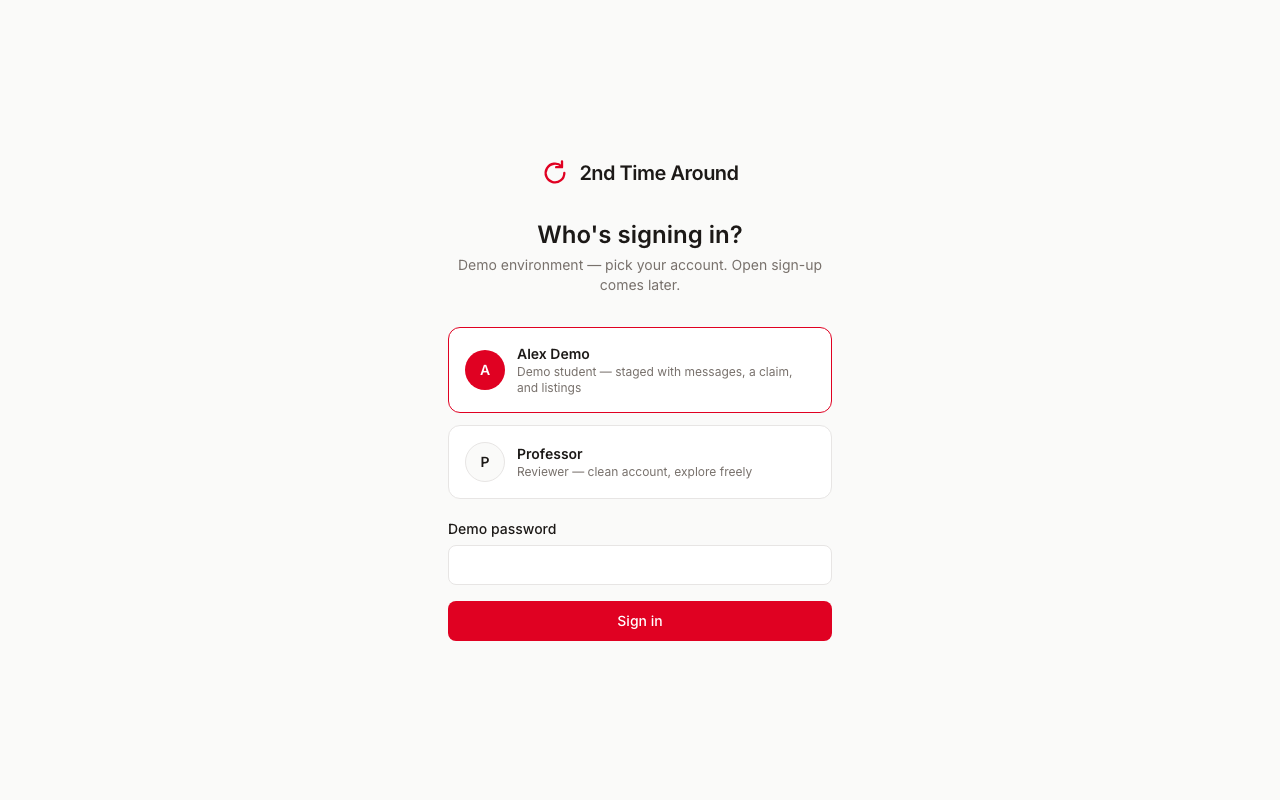
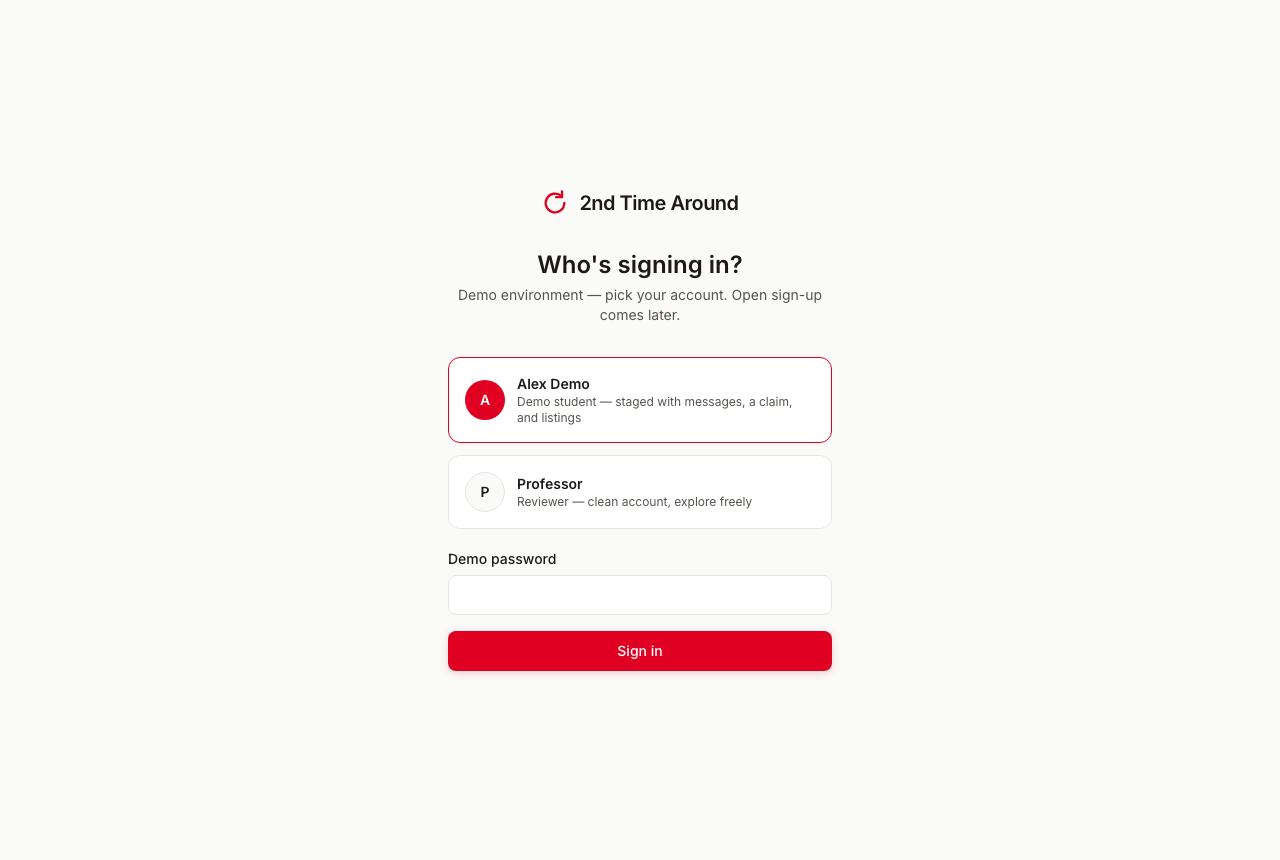
docs: refresh full gallery to v3 UI + add v3 section to README
Recaptured the remaining showcase screenshots from the live deployment
(persona picker, mobile landing, browse marketplace + lost & found, my items,
sell wizard, meetup + claim threads, mobile browse) so the whole gallery
reflects the elevated v3 UI.

README: mark the platform as v3 with a top-line note and a "v3 — design
elevation" section (v2 → v3 table covering depth, motion, material, display
serif, the campus-impact band, the HCI/accessibility pass, and correctness/
scale hardening).

diff --git a/README.md b/README.md
@@ -10,6 +10,10 @@ no randoms from across town. no sketchy meetups. no "is this still
 available?" into the void. every account is a UC student, every meetup spot
 is on campus, and every sale keeps something out of a dumpster.
 
+now on **v3** — a full design-elevation + usability pass on top of v2's
+feature set. what changed is [below](#v3--design-elevation); every screenshot
+in this README is v3.
+
 ## the stack
 
 - **Next.js 15** (App Router) + TypeScript, strict mode — no `any`, no mercy
@@ -146,6 +150,26 @@ report/block overflow menu, and safety blurbs on the suggested meetup spots.
 | Move-out sale (shareable) | Moderation queue |
 | --- | --- |
 | ![Move-out batch](docs/screenshots/v2-moveout.png) | ![Moderation](docs/screenshots/v2-moderation.png) |
+
+## v3 — design elevation
+
+v3 isn't new features — it's the same product, made to feel like Apple shipped
+it. Depth from light instead of lines, purposeful motion, a frosted material
+header, and a warm optical serif (Fraunces) for display moments — all without a
+second accent color or breaking a single accessibility rule.
+
+| area | v2 | v3 |
+| --- | --- | --- |
+| **depth** | flat, 1px borders everywhere | soft layered elevation — cards lift, sheets float, header separates on scroll |
+| **motion** | color transitions only | one expo-out ease, staggered entrance reveals, tactile press states (all off under `prefers-reduced-motion`) |
+| **material** | opaque header | frosted backdrop-blur header, borderless at top |
+| **type** | one sans (Inter) | + Fraunces display serif for the hero, page titles, and big stat numerals |
+| **landing** | live listing preview | + a real **campus-impact band**: items kept out of Cincinnati landfills, dollars traded student-to-student, items given free |
+| **accessibility** | baseline | a full heuristic-evaluation pass — ~20 fixes (44px targets, high-contrast focus ring, skip-to-content, roving-tabindex radios, undo on destructive actions…), written up in [`docs/HCI_UX_REPORT.md`](docs/HCI_UX_REPORT.md) |
+| **correctness & scale** | — | race-free favorites/claims, real browse pagination, block-aware notifications, cached impact counts, SSE poll demoted to a true fallback |
+
+The whole thing propagates from shared design tokens + primitives, so the
+elevation lands on every screen, not just the landing.
 
 ## how it's laid out
 
